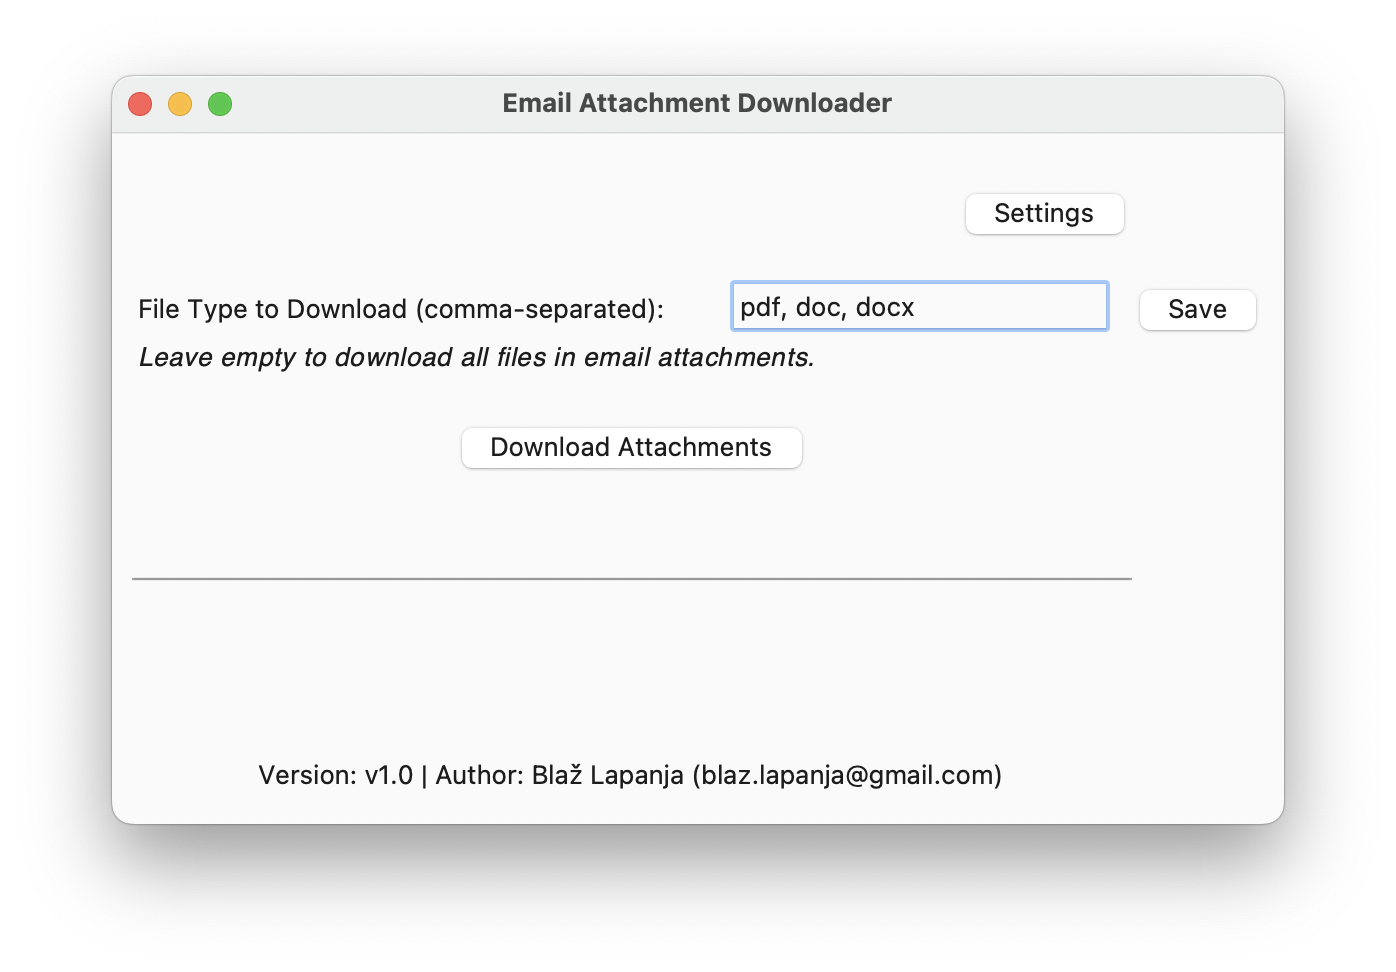
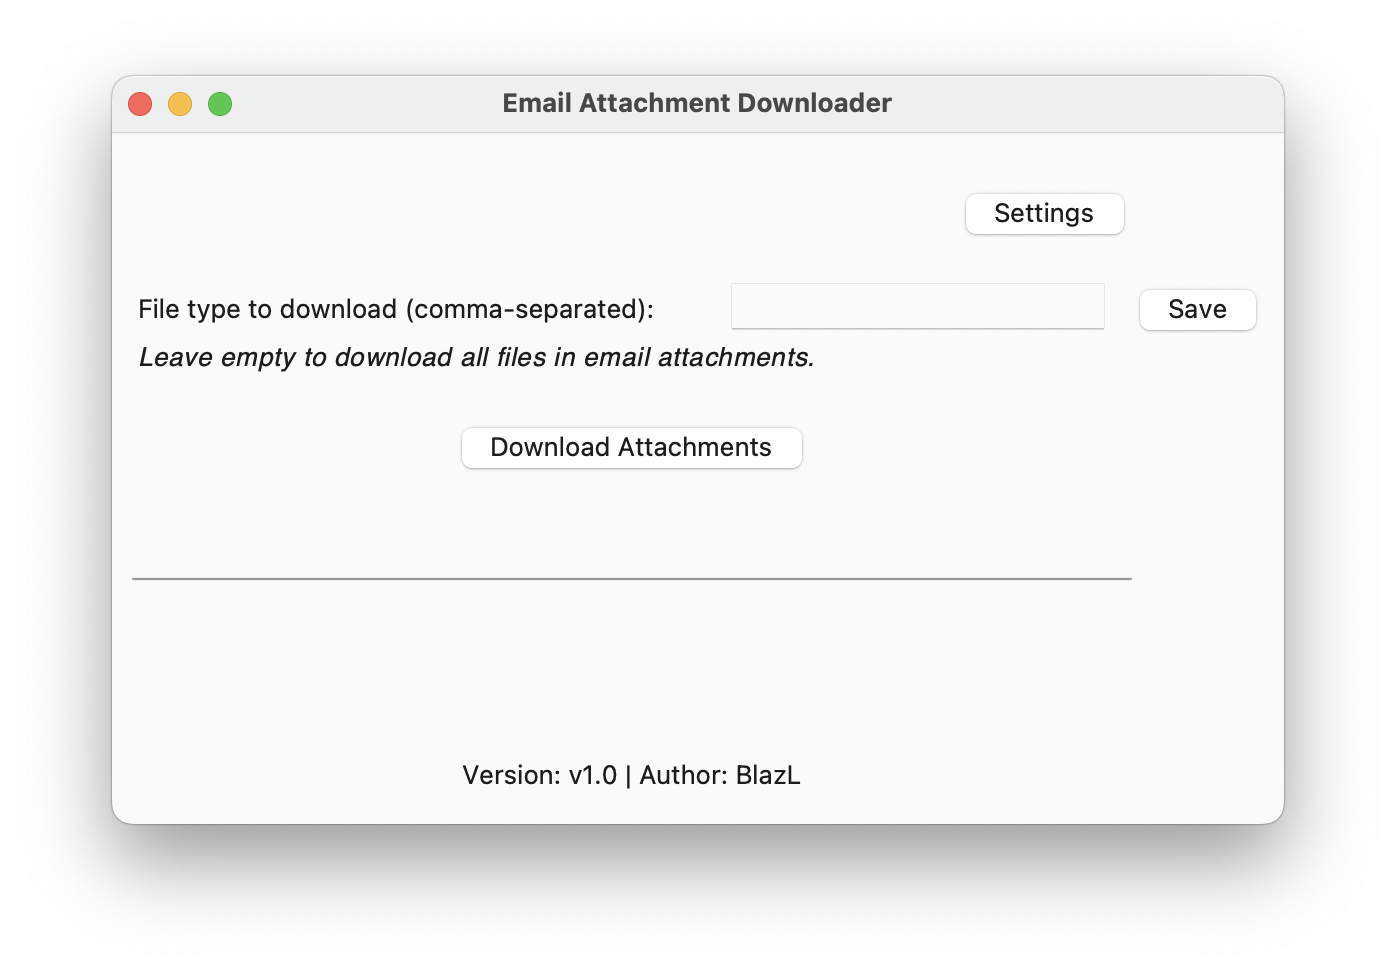
wip

Changed region(s): [[0.1848, 0.7716, 0.7085, 0.8333], [0.5236, 0.2778, 0.8009, 0.3395], [0.1232, 0.3086, 0.462, 0.3395]]

diff --git a/main.py b/main.py
@@ -10,6 +10,8 @@ import os
 import threading
 import gettext
 
+gettext.install("messages")
+
 KEY_FILE = 'key.key'
 
 def generate_key():
@@ -356,7 +358,7 @@ status_label = tk.Label(root, text="", anchor="center")
 status_label.grid(row=5, columnspan=2, pady=10)
 
 app_version = "v1.0"
-app_author = "Blaž Lapanja (blaz.lapanja@gmail.com)"
+app_author = "BlazL"
 
 app_info_label = tk.Label(root, text=f"Version: {app_version} | Author: {app_author}")
 app_info_label.grid(row=6, columnspan=2, pady=10)
